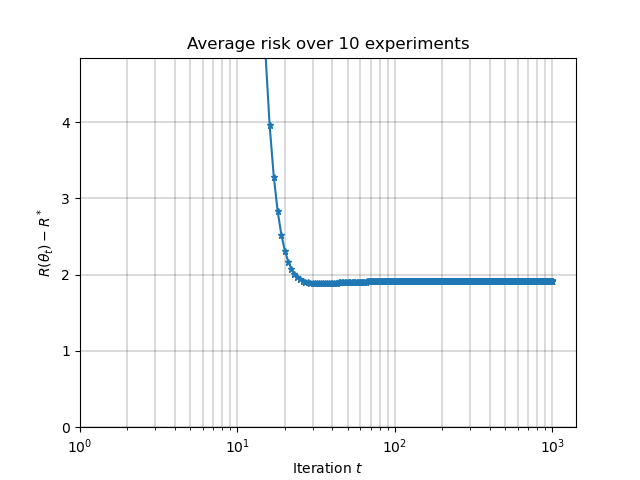
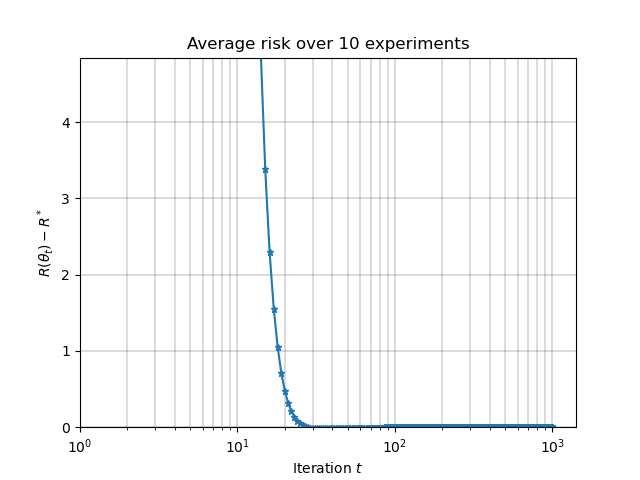
Correction ridge

Changed region(s): [[0.4062, 0.125, 0.875, 0.75], [0.4375, 0.75, 0.875, 0.9062]]

diff --git a/utils.py b/utils.py
@@ -59,10 +59,10 @@ def ridge(A,b,lambda_):
     if isinstance(lambda_, numbers.Number): # real number
         if d<=n: # underparametrized
             inv = np.linalg.inv(2/n*A.T@A+2*lambda_*np.eye(d))
-            res = inv@(A.T)@b/n
+            res = inv@(A.T)@b*2/n
         else: # overparametrized
             inv = np.linalg.inv(2/n*A@(A.T)+2*lambda_*np.eye(n))
-            res = A.T@inv@b/n
+            res = A.T@inv@b*2/n
     else: # multi-dim
         raise NotImplementedError('Penalization per dimension not yet implemented')
     return res

diff --git a/paper_like classification.py b/paper_like classification.py
@@ -47,6 +47,7 @@ for i in tqdm(range(nb_avg)):
     ### Solving the problem
     w_reg = None # (epochs, p)
     ws_reg_norm = np.linalg.norm(w_reg, axis=-1)
+    
     for j in range(epochs):
         margin_reg[i,j] = margin(data,observations,w_reg[j,:])
 
